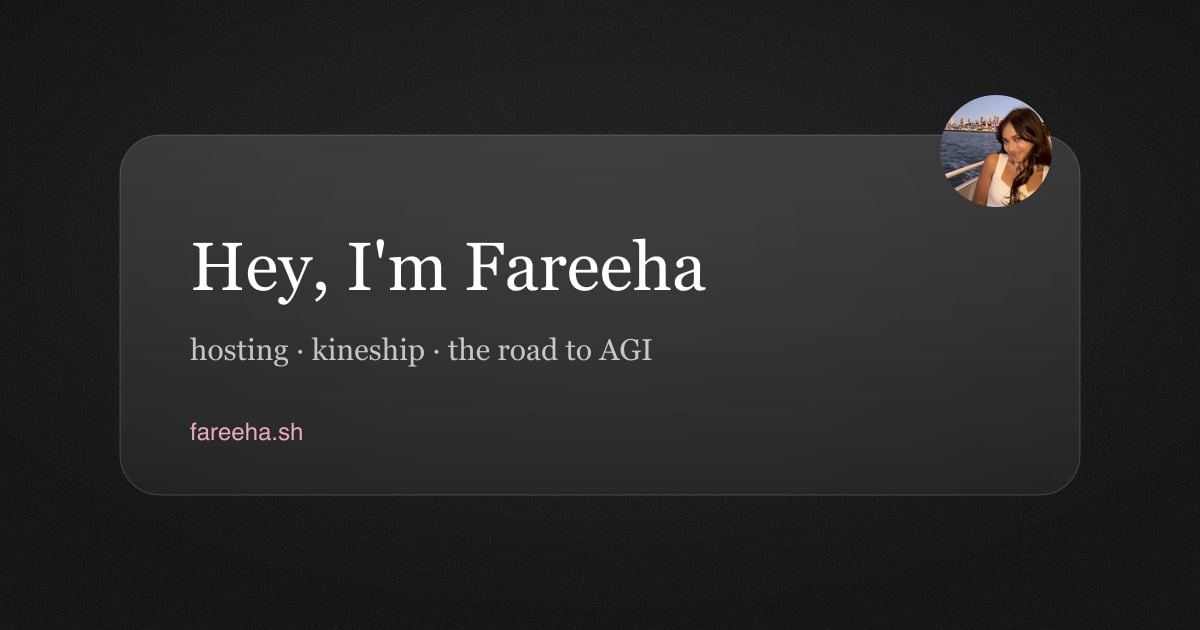
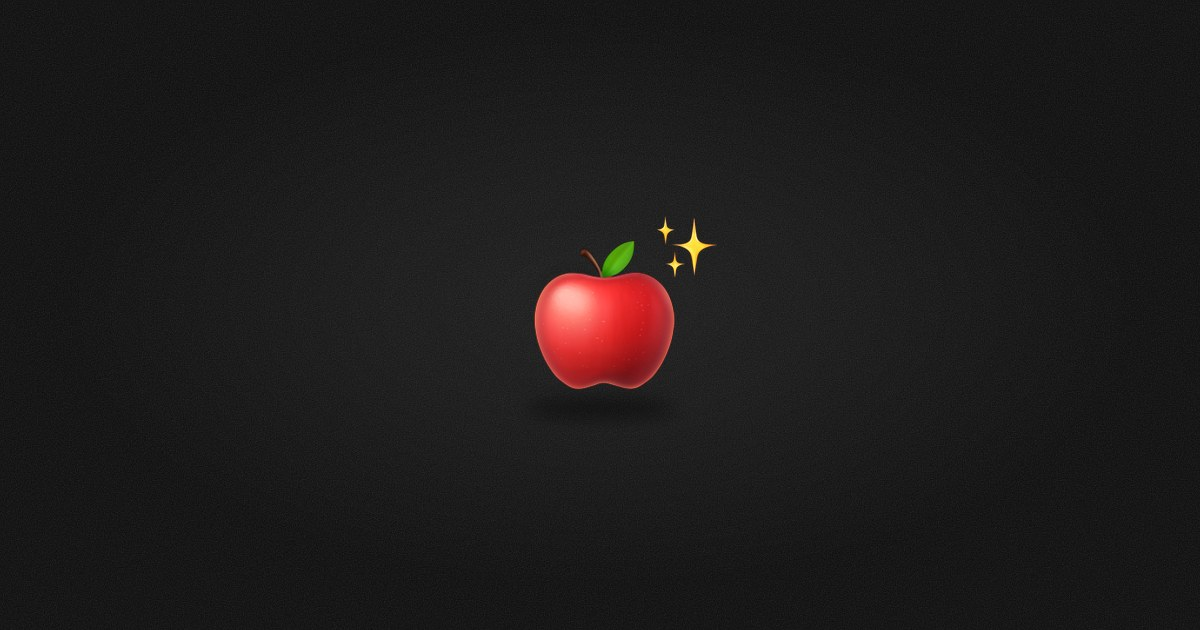
Minimal link preview: an apple and a sparkle

Changed region(s): [[0.0925, 0.1508, 0.925, 0.6635], [0.1542, 0.6635, 0.2467, 0.7238]]

diff --git a/index.html b/index.html
@@ -25,17 +25,17 @@
     <meta property="og:type" content="website">
     <meta property="og:url" content="https://fareeha.sh/">
     <meta property="og:title" content="Fareeha OS">
-    <meta property="og:description" content="Hey, I'm Fareeha ✨ I'm joining a team that spotlights and supports the people building AGI. I think it's the most important thing our generation has to get right. I also built Kineship, a social layer for workouts.">
+    <meta property="og:description" content="🍎✨">
     <meta property="og:image" content="https://fareeha.sh/images/og.jpg">
     <meta property="og:image:width" content="1200">
     <meta property="og:image:height" content="630">
-    <meta property="og:image:alt" content="Hey, I'm Fareeha. hosting, kineship, the road to AGI">
+    <meta property="og:image:alt" content="An apple with a sparkle">
 
     <!-- Twitter Card Meta Tags -->
     <meta name="twitter:card" content="summary_large_image">
     <meta name="twitter:url" content="https://fareeha.sh/">
     <meta name="twitter:title" content="Fareeha OS">
-    <meta name="twitter:description" content="Hey, I'm Fareeha ✨ I'm joining a team that spotlights and supports the people building AGI. I think it's the most important thing our generation has to get right. I also built Kineship, a social layer for workouts.">
+    <meta name="twitter:description" content="🍎✨">
     <meta name="twitter:image" content="https://fareeha.sh/images/og.jpg">
     
     <!-- Structured data for search engines - invisible to users -->
